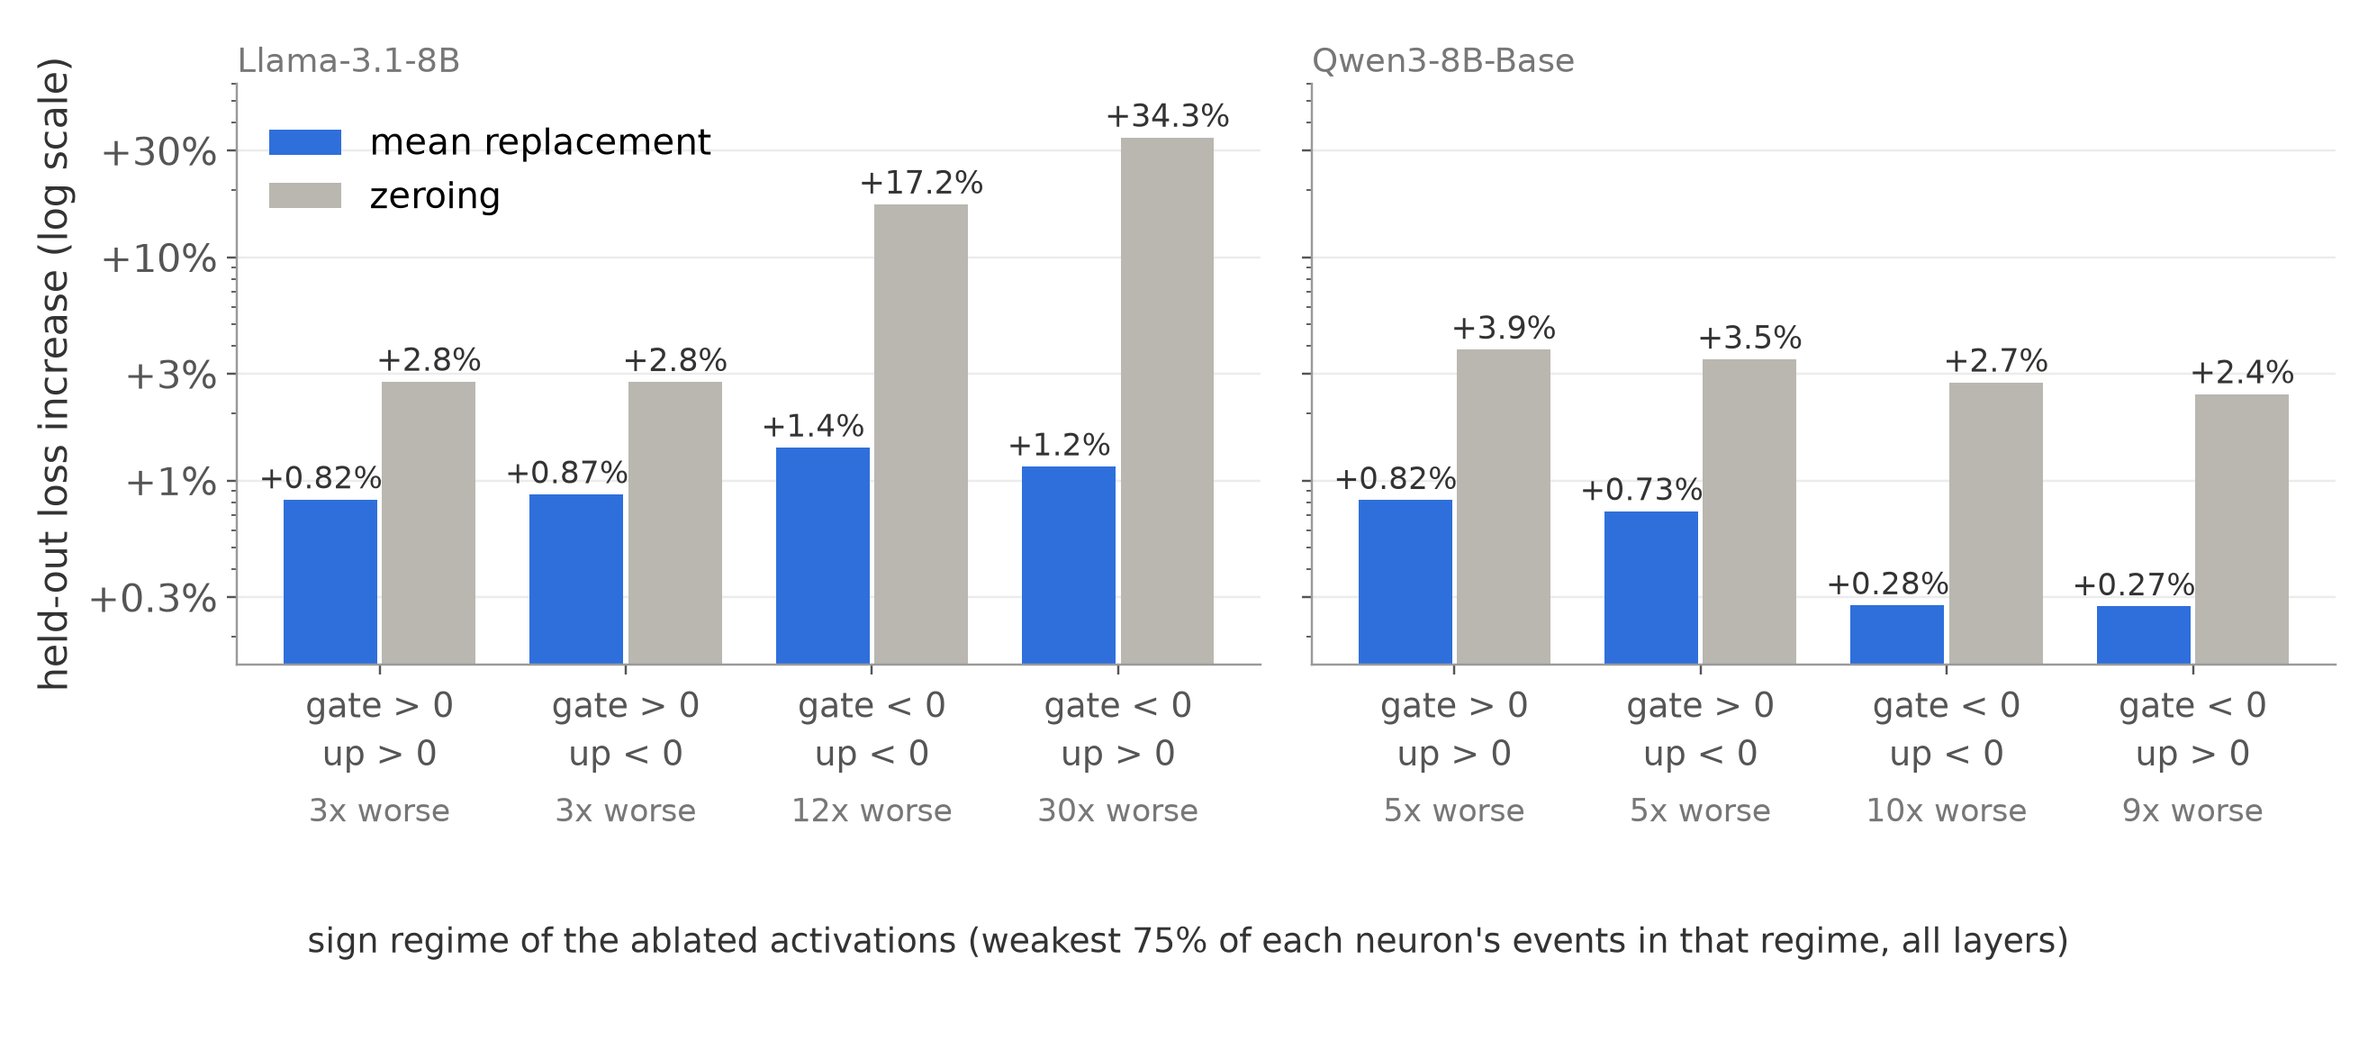
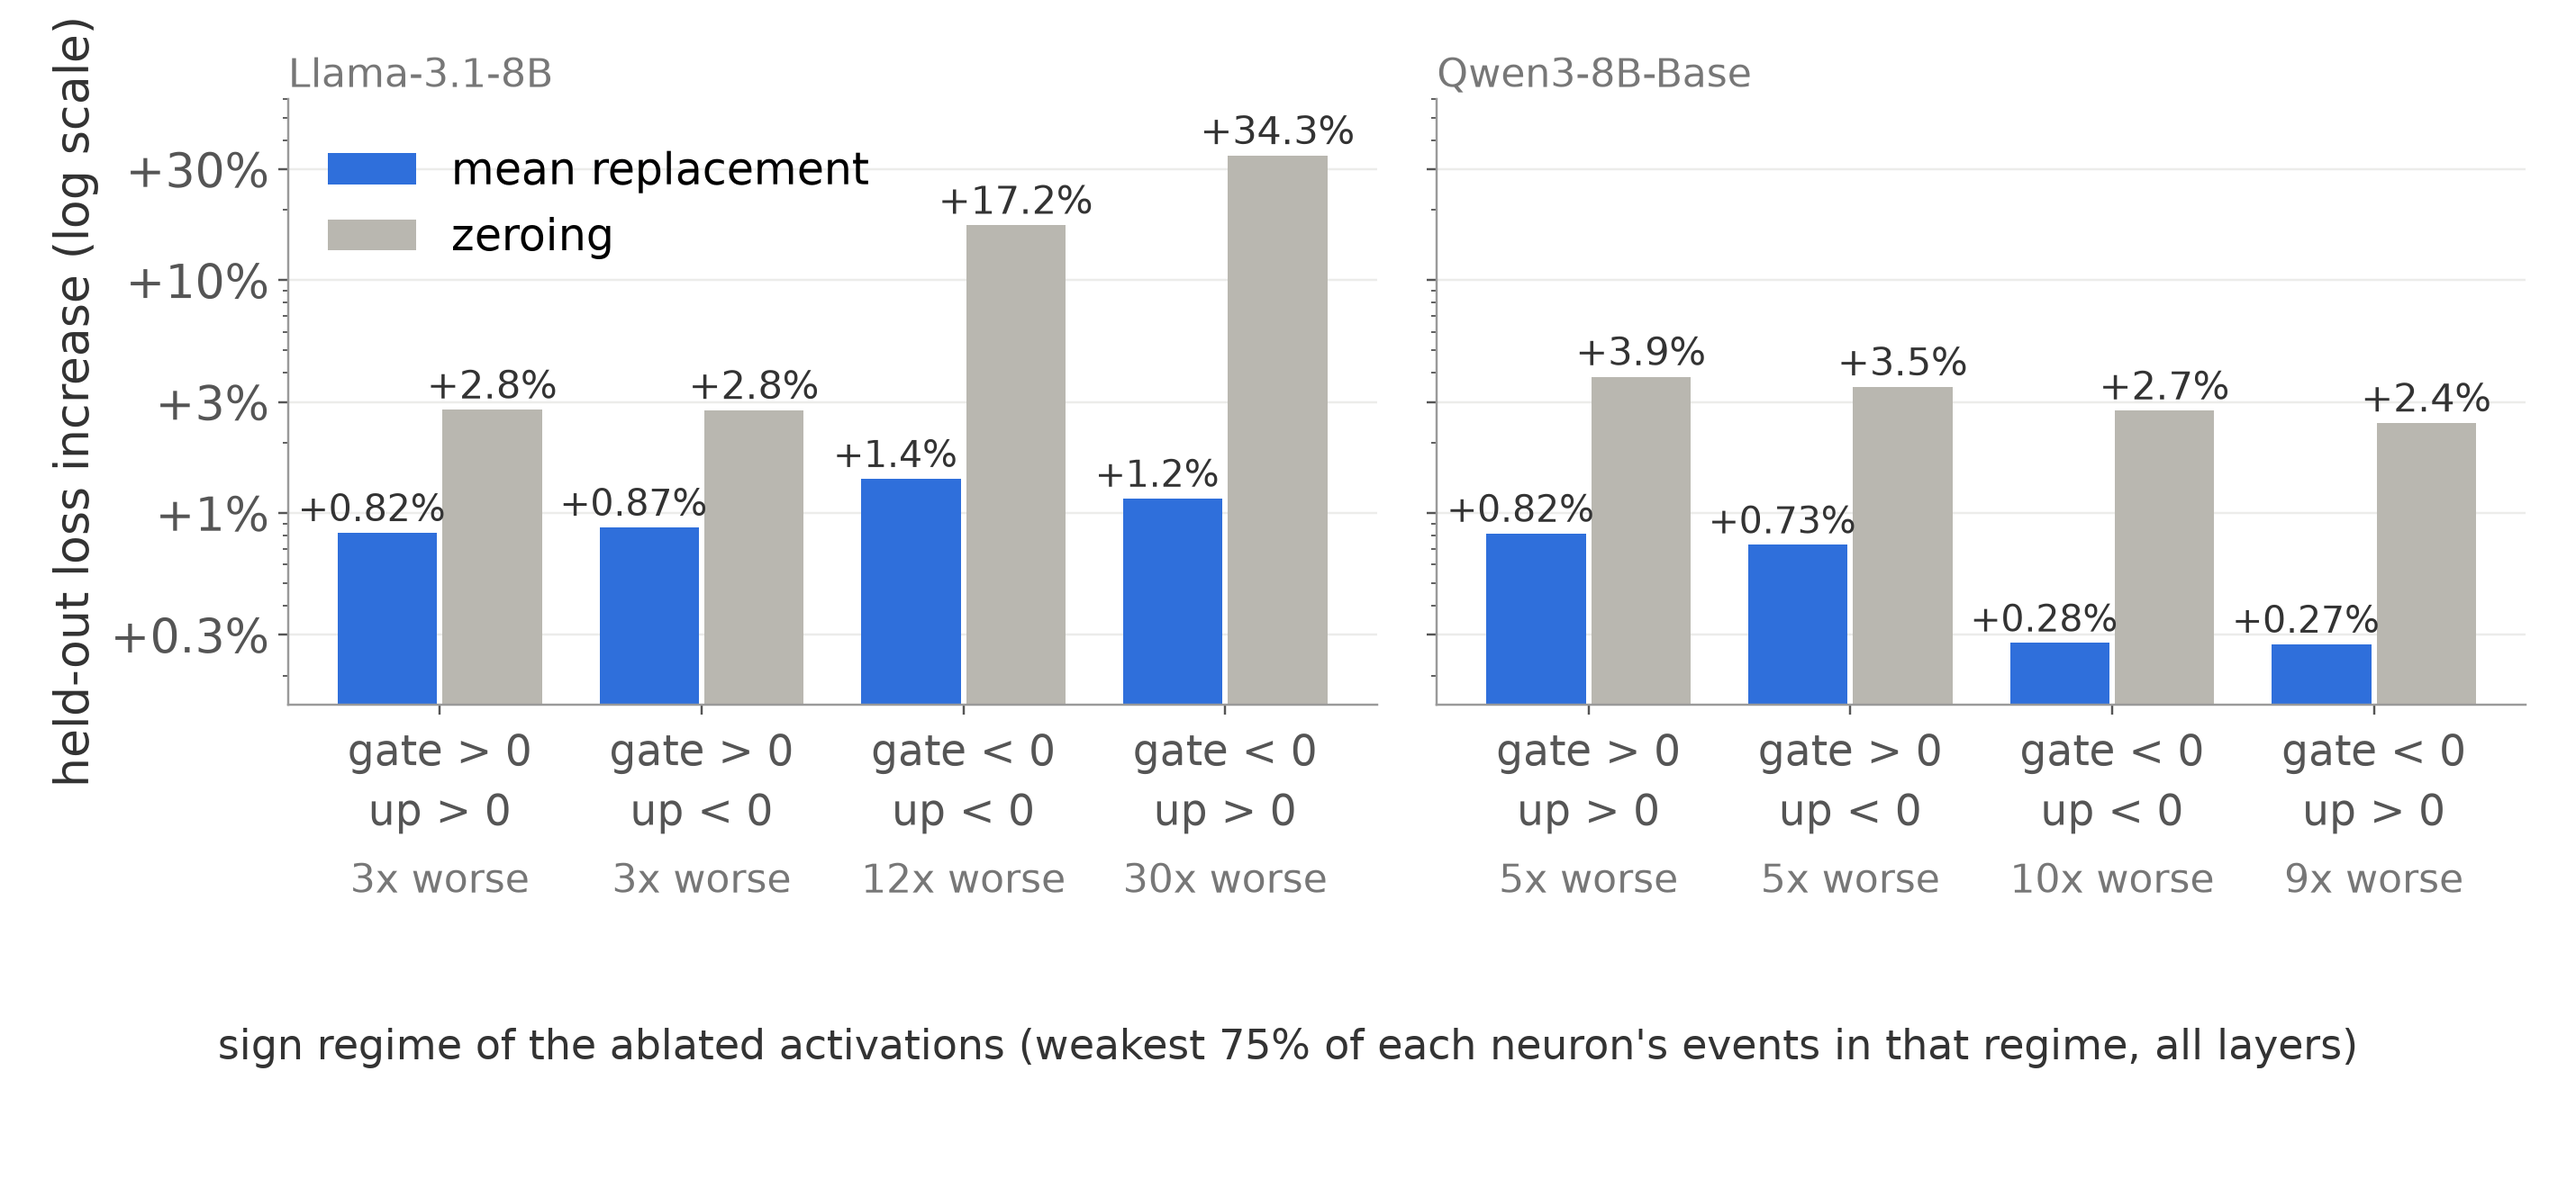
Tweet zero-vs-mean figure: larger fonts

diff --git a/src/fig_tweet_zero.py b/src/fig_tweet_zero.py
@@ -6,11 +6,11 @@ import matplotlib; matplotlib.use('Agg')
 import matplotlib.pyplot as plt
 ROOT = os.path.dirname(os.path.dirname(os.path.abspath(__file__)))
 ACC, GREY, GREY2, INK = '#2f6fdb', '#7a7a76', '#b9b7b0', '#333'
-plt.rcParams.update({'font.size': 14, 'axes.spines.top': False, 'axes.spines.right': False, 'axes.edgecolor': '#9a9a9a', 'axes.labelcolor': INK, 'xtick.color': '#555', 'ytick.color': '#555'})
+plt.rcParams.update({'font.size': 17, 'axes.spines.top': False, 'axes.spines.right': False, 'axes.edgecolor': '#9a9a9a', 'axes.labelcolor': INK, 'xtick.color': '#555', 'ytick.color': '#555'})
 TAGS = [('llama31_8b', 'Llama-3.1-8B'), ('qwen3_8b_base', 'Qwen3-8B-Base')]
 quads = [('pp', 'gate > 0\nup > 0'), ('pn', 'gate > 0\nup < 0'), ('nn', 'gate < 0\nup < 0'), ('np', 'gate < 0\nup > 0')]
 for log in [False, True]:
-    fig, axes = plt.subplots(1, 2, figsize=(12, 5.3), sharey=True)
+    fig, axes = plt.subplots(1, 2, figsize=(13, 6), sharey=True)
     for ax, (tag, label) in zip(axes, TAGS):
         rows = {r['name']: r for r in json.load(open(os.path.join(ROOT, 'results', tag, 'summary_rows.json')))}
         m = [rows[f's1_q75_{q}']['dloss_pct'] for q, _ in quads]; z = [rows[f's2_q75_{q}_zero_all']['dloss_pct'] for q, _ in quads]
@@ -18,15 +18,15 @@ for log in [False, True]:
         ax.bar(x - 0.2, m, 0.38, color=ACC, label='mean replacement'); ax.bar(x + 0.2, z, 0.38, color=GREY2, label='zeroing')
         for xi, (a, b) in enumerate(zip(m, z)):
             fa = f'+{a:.1f}%' if a >= 1 else f'+{a:.2f}%'
-            ya = a * 1.12 if log else a + 0.7; yb = b * 1.12 if log else b + 0.7
-            ax.text(xi - 0.24, ya, fa, ha='center', fontsize=11, color=INK); ax.text(xi + 0.2, yb, f'+{b:.1f}%', ha='center', fontsize=11.5, color=INK)
-        ax.set_xticks(x); ax.set_xticklabels([f'{lab}\n' for _, lab in quads], fontsize=12.5, linespacing=1.4)
-        for xi, (a, b) in enumerate(zip(m, z)): ax.text(xi, -0.27 if not log else -0.27, f'{b / a:.0f}x worse', transform=ax.get_xaxis_transform(), ha='center', fontsize=11.5, color='#777')
+            ya = a * 1.12 if log else a + 0.8; yb = b * 1.12 if log else b + 0.8
+            ax.text(xi - 0.26 if log else xi - 0.01, ya, fa, ha='center' if log else 'right', fontsize=13.5, color=INK); ax.text(xi + 0.2, yb, f'+{b:.1f}%', ha='center', fontsize=14, color=INK)
+        ax.set_xticks(x); ax.set_xticklabels([f'{lab}\n' for _, lab in quads], fontsize=15.5, linespacing=1.4)
+        for xi, (a, b) in enumerate(zip(m, z)): ax.text(xi, -0.31, f'{b / a:.0f}x worse', transform=ax.get_xaxis_transform(), ha='center', fontsize=14.5, color='#777')
         ax.grid(axis='y', color='#ececea'); ax.set_axisbelow(True)
-        ax.text(0.0, 1.02, label, transform=ax.transAxes, fontsize=12, color='#777')
+        ax.text(0.0, 1.02, label, transform=ax.transAxes, fontsize=14.5, color='#777')
         if log: ax.set_yscale('log'); ax.set_ylim(0.15, 60); ax.set_yticks([0.3, 1, 3, 10, 30]); ax.set_yticklabels(['+0.3%', '+1%', '+3%', '+10%', '+30%'])
         else: ax.set_ylim(0, 38); ax.set_yticks([0, 10, 20, 30]); ax.set_yticklabels(['0', '+10%', '+20%', '+30%'])
     axes[0].set_ylabel('held-out loss increase' + (' (log scale)' if log else ''))
-    axes[0].legend(frameon=False, fontsize=13, loc='upper left', bbox_to_anchor=(0, 0.98))
-    fig.supxlabel("sign regime of the ablated activations (weakest 75% of each neuron's events in that regime, all layers)", fontsize=12.5, color=INK, y=0.085)
+    axes[0].legend(frameon=False, fontsize=16, loc='upper left', bbox_to_anchor=(0, 0.98))
+    fig.supxlabel("sign regime of the ablated activations (weakest 75% of each neuron's events in that regime, all layers)", fontsize=15, color=INK, y=0.1)
     fig.tight_layout(rect=(0, 0.04, 1, 1)); out = os.path.join(ROOT, 'figures', 'tweet_zero_vs_mean' + ('_log' if log else '') + '.png'); fig.savefig(out, dpi=220); plt.close(fig); print('wrote', out)
